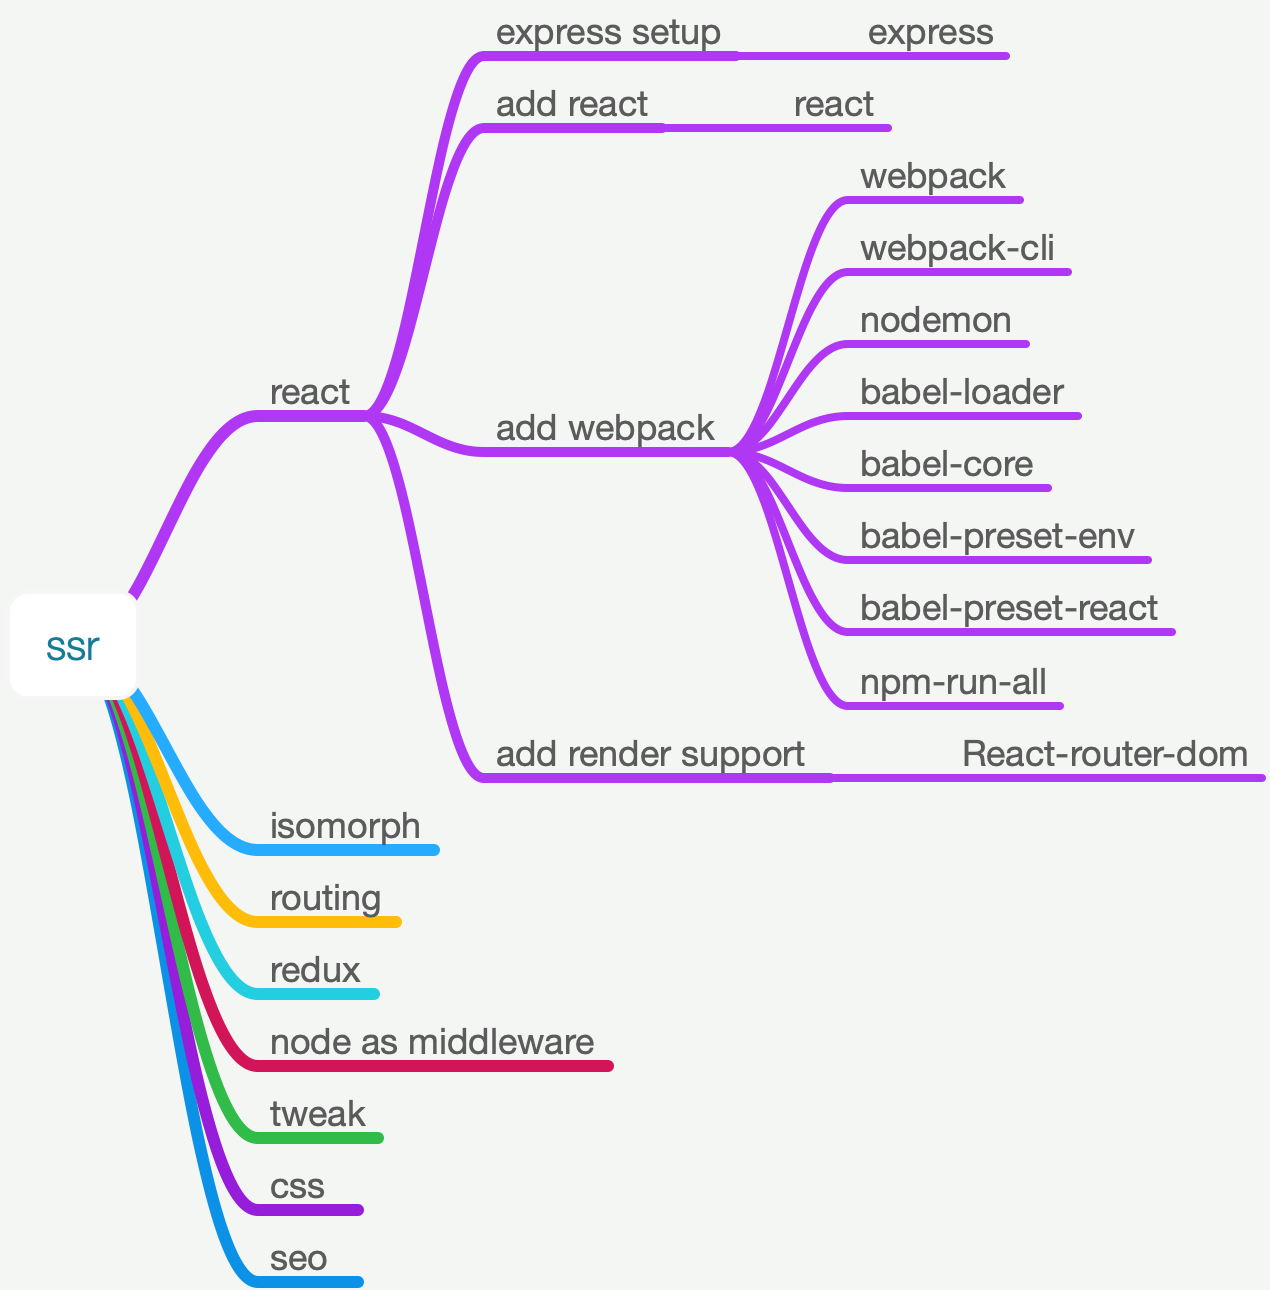
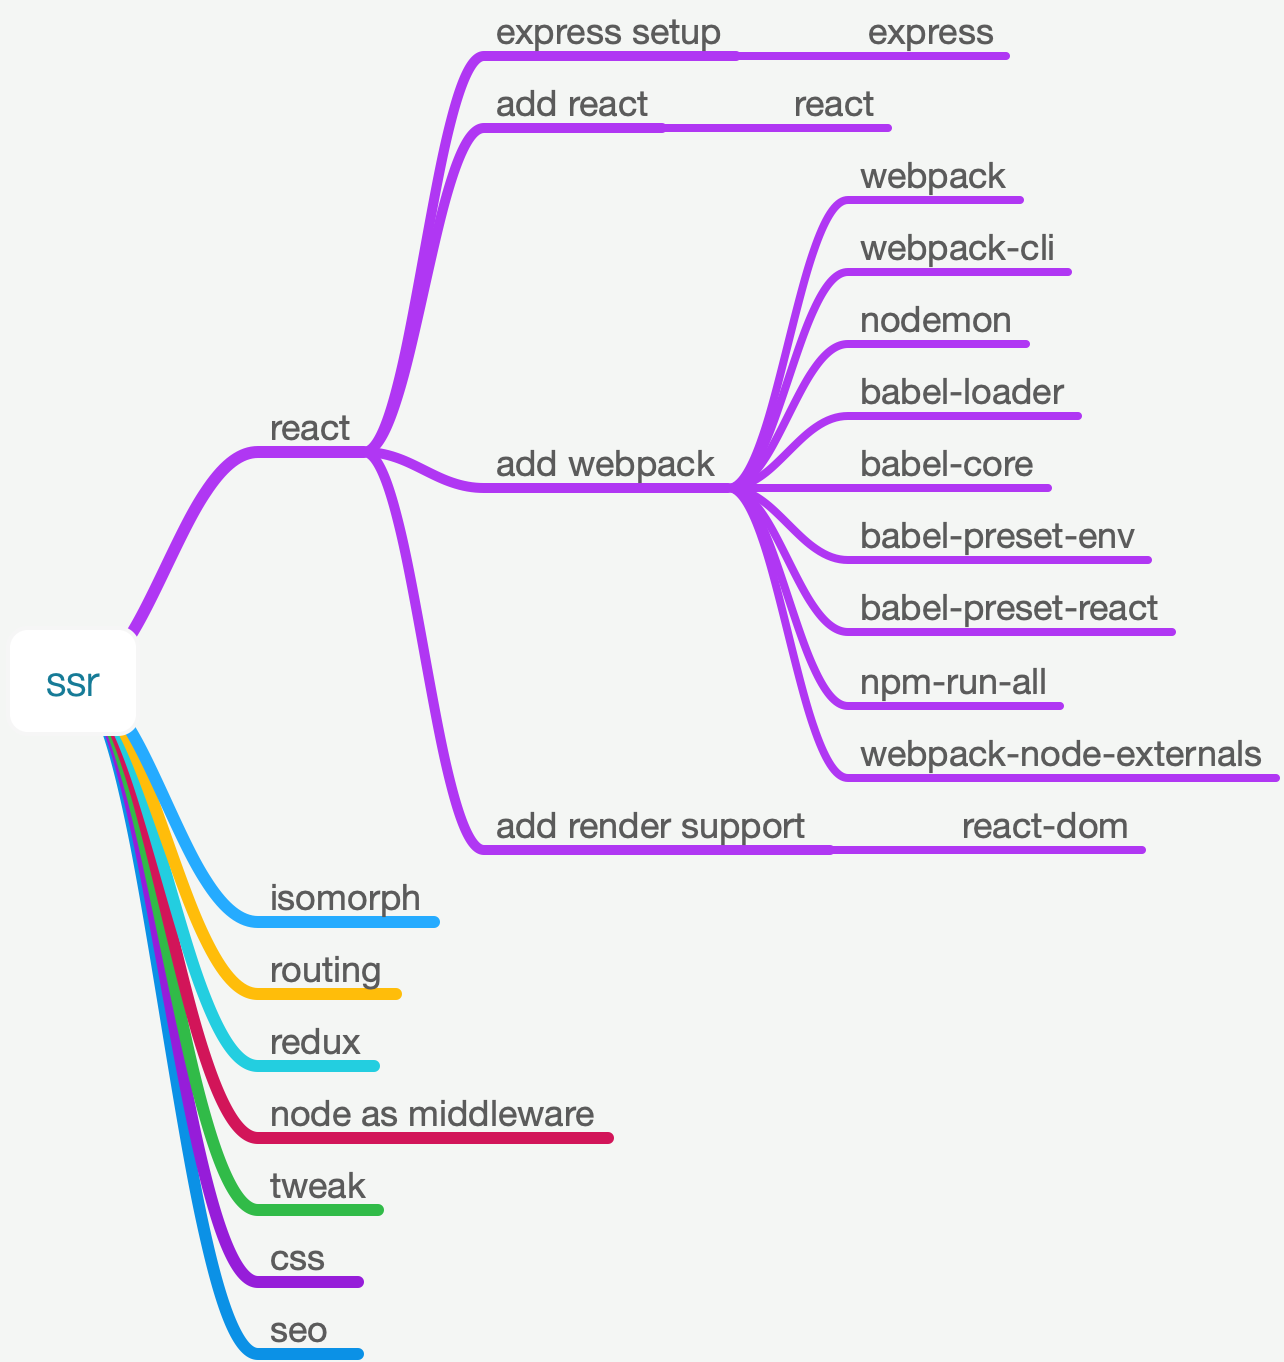
add react render support

diff --git a/dist/server-entry.js b/dist/server-entry.js
@@ -106,7 +106,7 @@ eval("__webpack_require__.r(__webpack_exports__);\n/* harmony import */ var reac
 /***/ (function(module, __webpack_exports__, __webpack_require__) {
 
 "use strict";
-eval("__webpack_require__.r(__webpack_exports__);\n/* harmony import */ var _containers_Home__WEBPACK_IMPORTED_MODULE_0__ = __webpack_require__(/*! ../containers/Home */ \"./src/containers/Home/index.js\");\nvar express = __webpack_require__(/*! express */ \"express\");\n\nvar app = express();\n\napp.get('/', function (req, res) {\n  return res.send('hello worldasd');\n});\napp.listen(3000, function () {\n  return console.log('server started on port 3000');\n});\n\n//# sourceURL=webpack:///./src/server/index.js?");
+eval("__webpack_require__.r(__webpack_exports__);\n/* harmony import */ var express__WEBPACK_IMPORTED_MODULE_0__ = __webpack_require__(/*! express */ \"express\");\n/* harmony import */ var express__WEBPACK_IMPORTED_MODULE_0___default = /*#__PURE__*/__webpack_require__.n(express__WEBPACK_IMPORTED_MODULE_0__);\n/* harmony import */ var react__WEBPACK_IMPORTED_MODULE_1__ = __webpack_require__(/*! react */ \"react\");\n/* harmony import */ var react__WEBPACK_IMPORTED_MODULE_1___default = /*#__PURE__*/__webpack_require__.n(react__WEBPACK_IMPORTED_MODULE_1__);\n/* harmony import */ var react_dom_server__WEBPACK_IMPORTED_MODULE_2__ = __webpack_require__(/*! react-dom/server */ \"react-dom/server\");\n/* harmony import */ var react_dom_server__WEBPACK_IMPORTED_MODULE_2___default = /*#__PURE__*/__webpack_require__.n(react_dom_server__WEBPACK_IMPORTED_MODULE_2__);\n/* harmony import */ var _containers_Home__WEBPACK_IMPORTED_MODULE_3__ = __webpack_require__(/*! ../containers/Home */ \"./src/containers/Home/index.js\");\n\n\n\n\nvar app = express__WEBPACK_IMPORTED_MODULE_0___default()();\nvar content = Object(react_dom_server__WEBPACK_IMPORTED_MODULE_2__[\"renderToString\"])(react__WEBPACK_IMPORTED_MODULE_1___default.a.createElement(_containers_Home__WEBPACK_IMPORTED_MODULE_3__[\"default\"], null));\napp.get('/', function (req, res) {\n  res.send(\"\\n  <html>\\n    <head>\\n    </head>\\n    <body>\\n    \".concat(content, \"\\n    </body>\\n  </html>\\n  \"));\n});\napp.listen(3000, function () {\n  return console.log('server started on port 3000');\n});\n\n//# sourceURL=webpack:///./src/server/index.js?");
 
 /***/ }),
 
@@ -129,6 +129,17 @@ eval("module.exports = require(\"express\");\n\n//# sourceURL=webpack:///externa
 /***/ (function(module, exports) {
 
 eval("module.exports = require(\"react\");\n\n//# sourceURL=webpack:///external_%22react%22?");
+
+/***/ }),
+
+/***/ "react-dom/server":
+/*!***********************************!*\
+  !*** external "react-dom/server" ***!
+  \***********************************/
+/*! no static exports found */
+/***/ (function(module, exports) {
+
+eval("module.exports = require(\"react-dom/server\");\n\n//# sourceURL=webpack:///external_%22react-dom/server%22?");
 
 /***/ })
 

diff --git a/src/server/index.js b/src/server/index.js
@@ -1,7 +1,21 @@
-const express = require('express');
-const app = express();
+import express from 'express';
+import React from 'react';
+import { renderToString } from 'react-dom/server';
 import Home from '../containers/Home';
+const app = express();
 
-app.get('/', (req, res) => res.send('hello worldasd'));
+const content = renderToString(<Home />);
+
+app.get('/', (req, res) => {
+  res.send(`
+  <html>
+    <head>
+    </head>
+    <body>
+    ${content}
+    </body>
+  </html>
+  `);
+});
 
 app.listen(3000, () => console.log('server started on port 3000'));

diff --git a/build/webpack.server.js b/build/webpack.server.js
@@ -15,7 +15,7 @@ module.exports = {
   module: {
     rules: [
       {
-        test: /.js?$/,
+        test: /\.js?$/,
         loader: 'babel-loader',
         exclude: /node_modules/
       }
